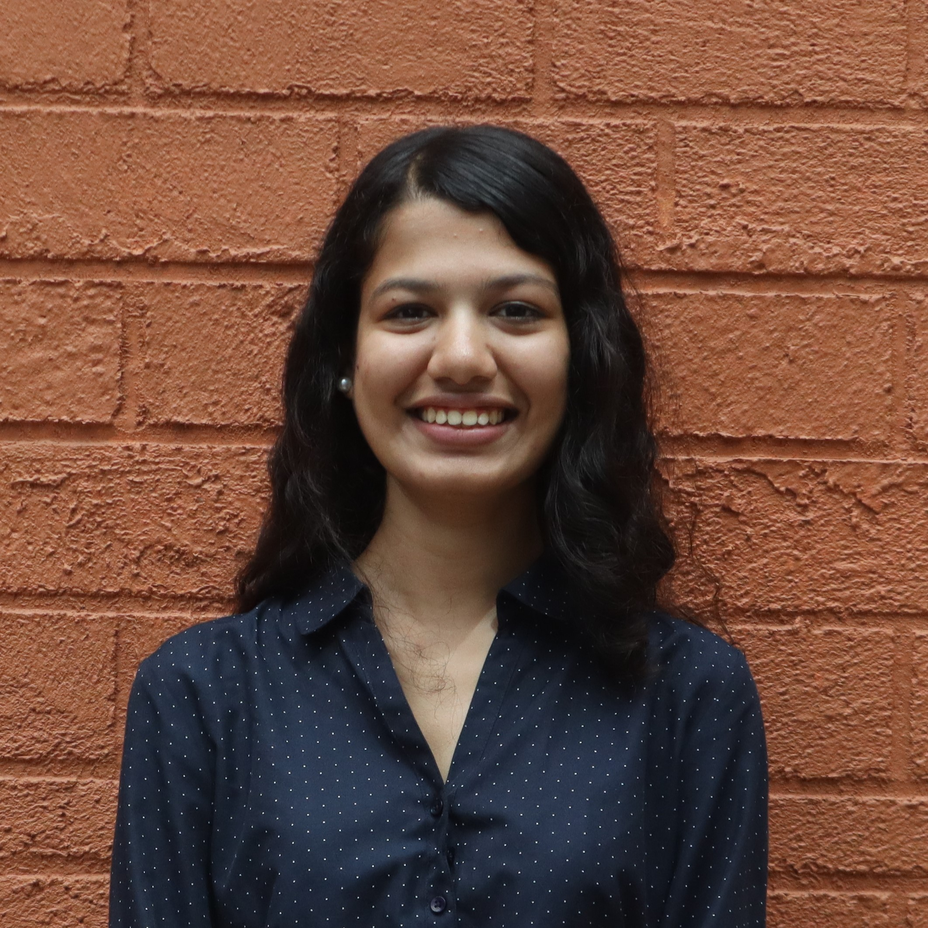
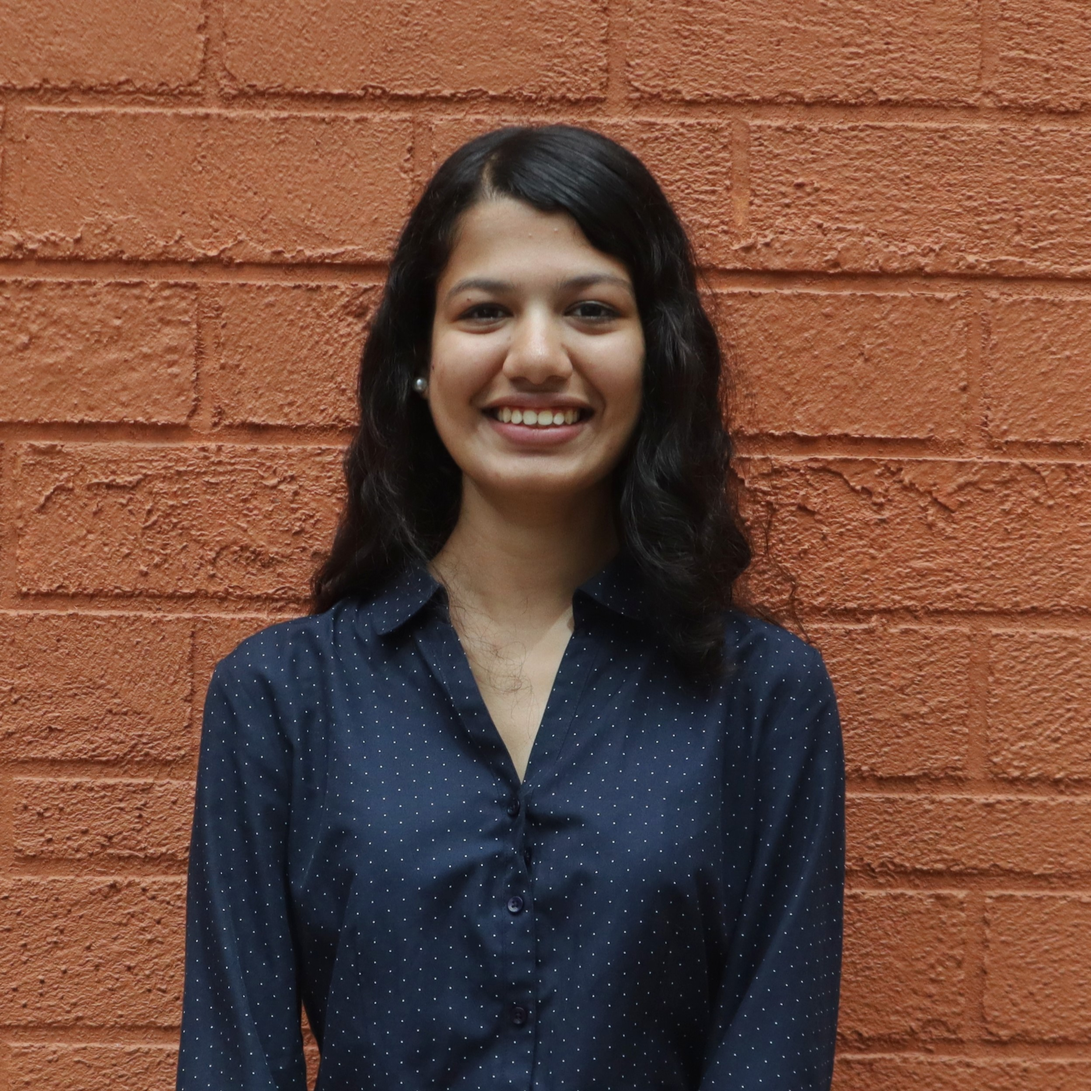
added 2025 team pictures

diff --git a/README.md b/README.md
@@ -1,3 +1,5 @@
 # Manipal Biomachines Website
 
 This website contains basic information about all of the projects and achievements of Manipal Biomachines (MBM), a student project at Manipal Institute of Technology, Manipal.
+
+URL: https://www.manipalbiomachinesmahe.com
